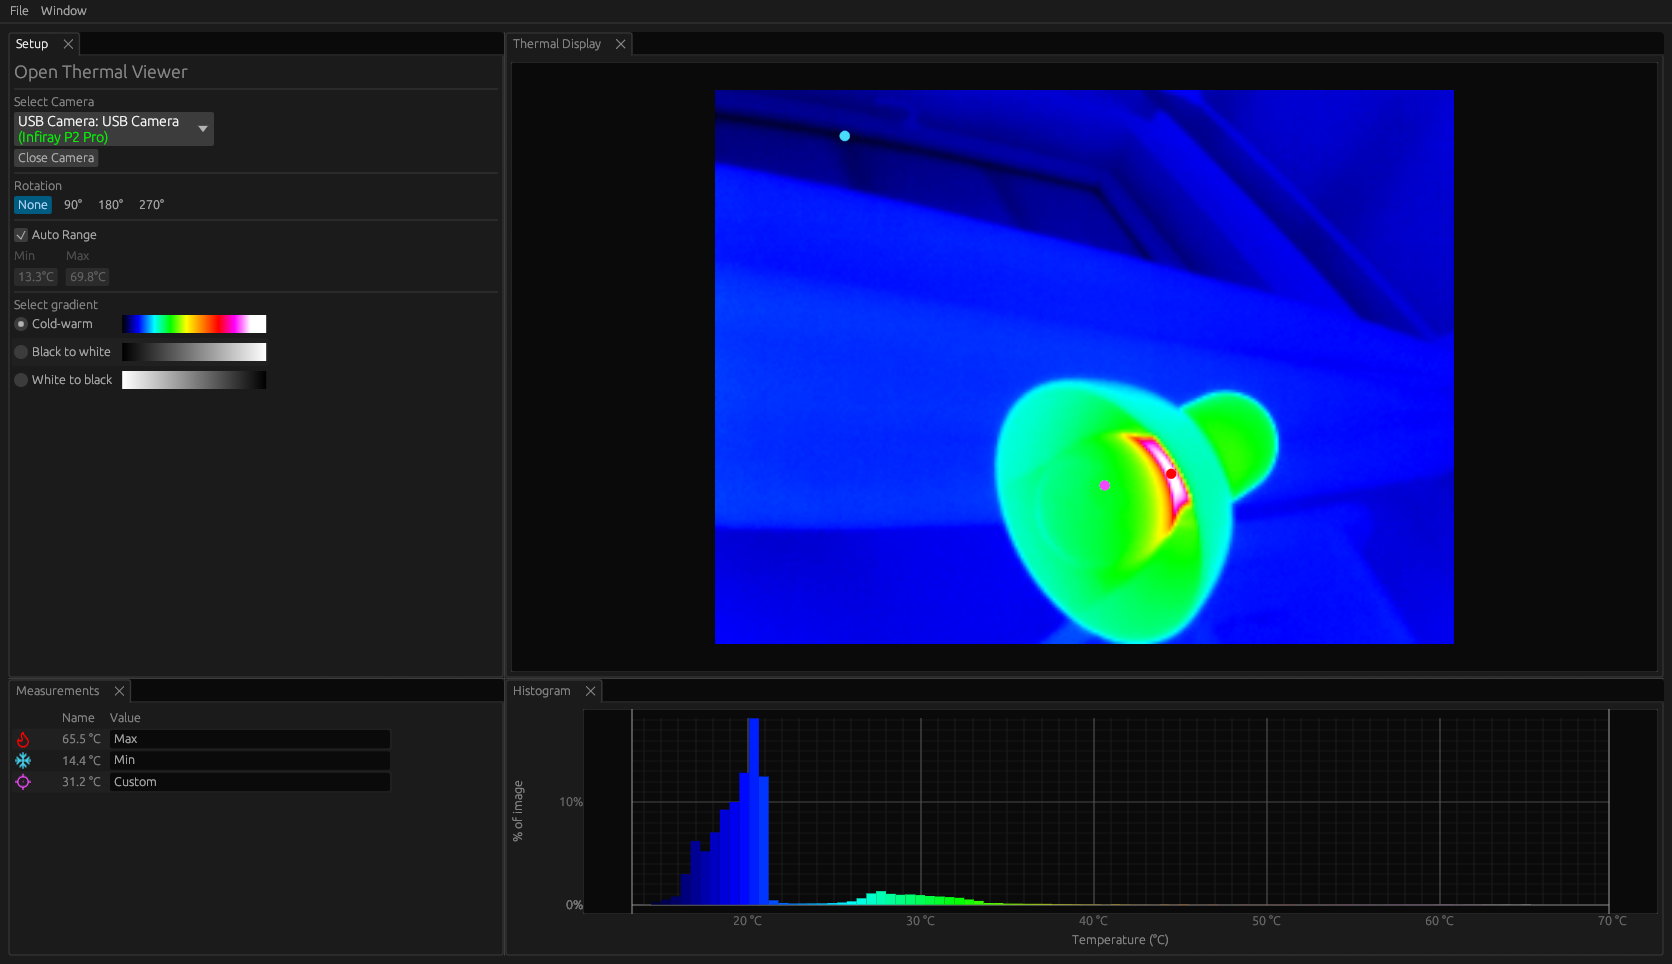
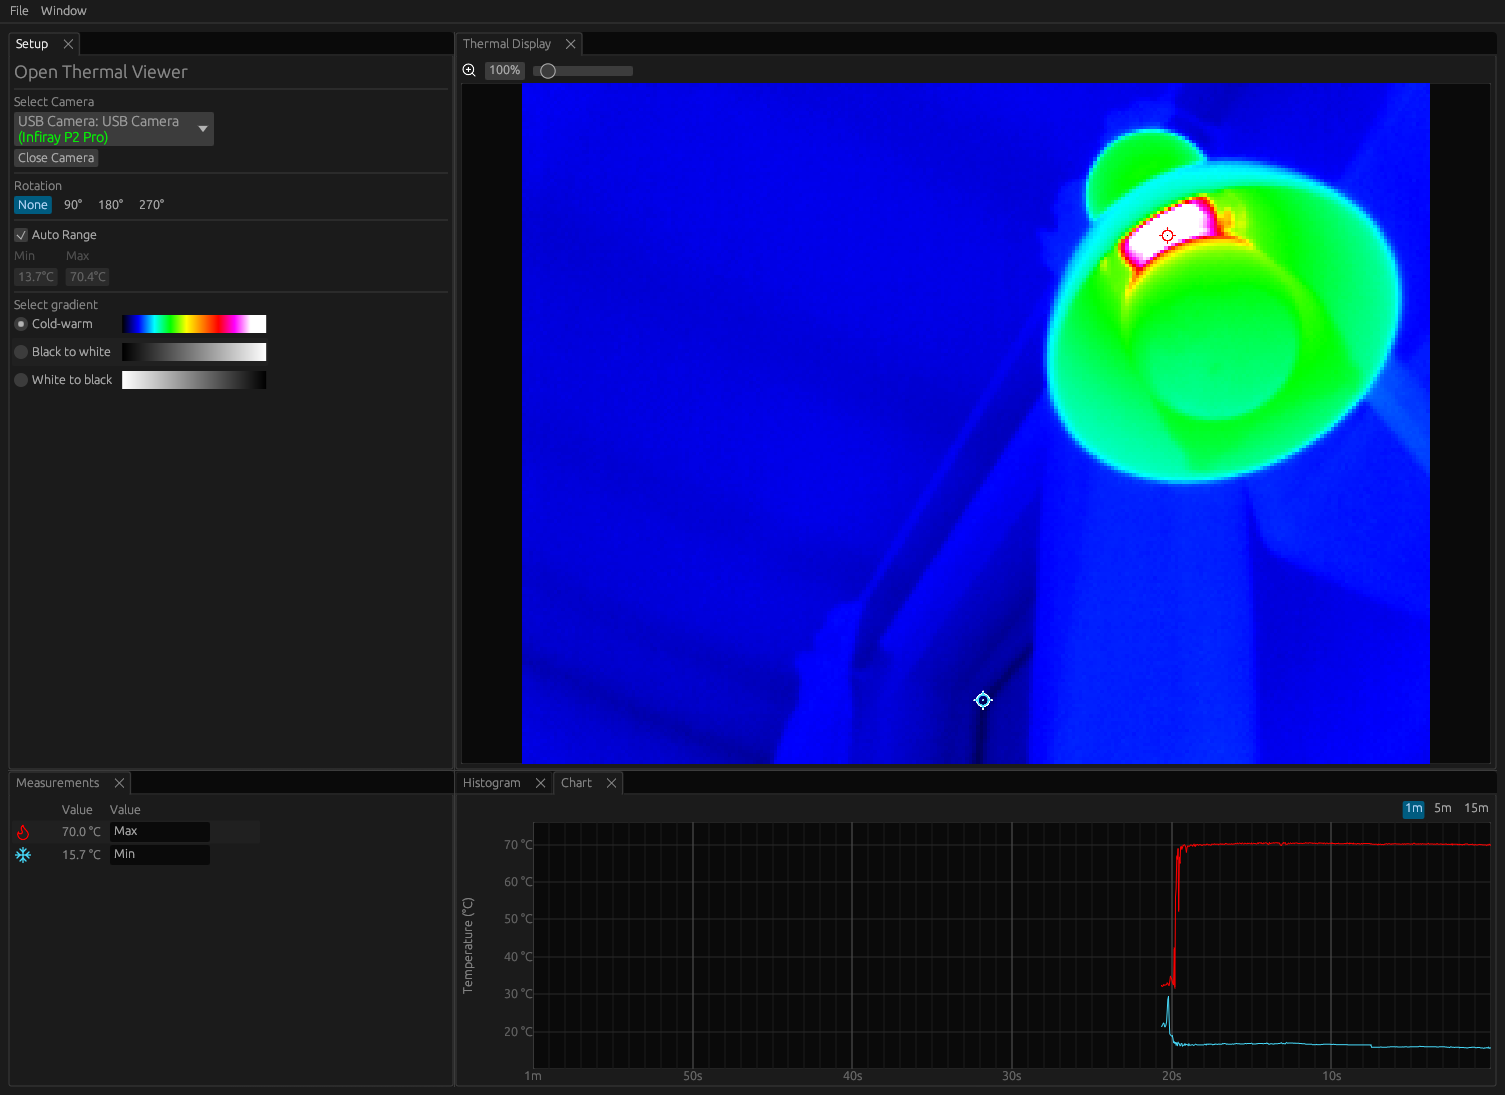
Fix zooming in and moving in thermal view
Scroll without ctrl now zooms and middle click moves view.

Added zoom indicator +  slider.

diff --git a/src/thermal_display_pane.rs b/src/thermal_display_pane.rs
@@ -4,11 +4,11 @@ use eframe::{
     egui::{
         self,
         load::{TextureLoadResult, TexturePoll},
-        SizeHint, TextureOptions,
+        DragValue, Image, Layout, Response, SizeHint, Slider, TextureOptions, Ui, Widget,
     },
     epaint::{TextureHandle, Vec2},
 };
-use egui_plot::{Plot, PlotImage, PlotPoint};
+use egui_plot::{Plot, PlotBounds, PlotImage, PlotPoint};
 
 use crate::{
     gizmos::GizmoKind, pane_dispatcher::Pane, thermal_data::ThermalDataPos, AppGlobalState,
@@ -22,6 +22,9 @@ pub struct ThermalDisplayPane {
 
     crosshair_texture_load_result: Option<TextureLoadResult>,
     crosshair_texture: Option<egui::TextureHandle>,
+
+    zoom_factor: f64,
+    center_offset: Vec2,
 }
 
 impl ThermalDisplayPane {
@@ -32,7 +35,28 @@ impl ThermalDisplayPane {
             crosshair_texture_load_result: None,
             crosshair_texture: None,
             camera_image_size: None,
+
+            zoom_factor: 1.0,
+            center_offset: Vec2::new(0.0, 0.0),
         }
+    }
+
+    fn build_toolbar_ui(&mut self, ui: &mut egui::Ui) {
+        ui.with_layout(
+            Layout::left_to_right(egui::Align::Min).with_main_align(egui::Align::Min),
+            |ui| {
+                Image::new(egui::include_image!("./icons/zoom-in.svg"))
+                    .max_height(16.0)
+                    .max_width(16.0)
+                    .tint(ui.style().visuals.widgets.active.fg_stroke.color)
+                    .ui(ui);
+                zoom_edit_field(ui, &mut self.zoom_factor);
+                Slider::new(&mut self.zoom_factor, 0.1..=10.0)
+                    .clamp_to_range(true)
+                    .show_value(false)
+                    .ui(ui);
+            },
+        );
     }
 }
 
@@ -87,83 +111,154 @@ impl Pane for ThermalDisplayPane {
                         Some(TextureHandle::new(ui.ctx().tex_manager(), texture.id))
                 }
             }
+            ui.vertical(|ui| {
+                self.build_toolbar_ui(ui);
+                self.camera_texture.as_ref().and_then(|texture| {
+                    let img_size = self.camera_image_size.unwrap();
 
-            self.camera_texture.as_ref().and_then(|texture| {
-                let img_size = self.camera_image_size.unwrap();
-                Plot::new("thermal_display_plot")
-                    .show_grid(false)
-                    .show_axes(false)
-                    .data_aspect(1.0)
-                    .auto_bounds_x()
-                    .auto_bounds_y()
-                    .show(ui, |plot_ui| {
-                        plot_ui.image(PlotImage::new(
-                            texture,
-                            PlotPoint::new(img_size.0 as f64 / 2.0, img_size.1 as f64 / 2.0),
-                            Vec2::new(img_size.0 as f32, img_size.1 as f32),
-                        ));
+                    Plot::new("thermal_display_plot")
+                        .show_grid(false)
+                        .show_axes(false)
+                        .allow_boxed_zoom(false)
+                        .allow_double_click_reset(false)
+                        .allow_zoom(false)
+                        .allow_drag(false)
+                        .allow_scroll(false)
+                        .data_aspect(1.0)
+                        .show(ui, |plot_ui| {
+                            // let's manually set the bounds we need
 
-                        global_state
-                            .thermal_capturer_settings
-                            .gizmo
-                            .children_mut()
-                            .unwrap()
-                            .iter()
-                            .for_each(|c| {
-                                let result = gizmo_results.as_ref().and_then(|r| r.get(&c.uuid));
-                                if let Some(result) = result {
-                                    let _color = c.color;
+                            let center_x = img_size.0 as f64 / 2.0 + self.center_offset.x as f64;
+                            let center_y = img_size.1 as f64 / 2.0 + self.center_offset.y as f64;
 
-                                    let x = result.pos.x as f64;
+                            plot_ui.set_plot_bounds(PlotBounds::from_min_max(
+                                [
+                                    center_x - (img_size.0 as f64 / 2.0) * (1.0 / self.zoom_factor),
+                                    center_y - (img_size.1 as f64 / 2.0) * (1.0 / self.zoom_factor),
+                                ],
+                                [
+                                    center_x + (img_size.0 as f64 / 2.0) * (1.0 / self.zoom_factor),
+                                    center_y + (img_size.1 as f64 / 2.0) * (1.0 / self.zoom_factor),
+                                ],
+                            ));
 
-                                    let y = img_size.1 as f64 - result.pos.y as f64;
+                            plot_ui.image(PlotImage::new(
+                                texture,
+                                PlotPoint::new(img_size.0 as f64 / 2.0, img_size.1 as f64 / 2.0),
+                                Vec2::new(img_size.0 as f32, img_size.1 as f32),
+                            ));
 
-                                    let point = PlotPoint::new(x, y);
-                                    let _size = 10.0;
-                                    if let Some(crosshair) = self.crosshair_texture.as_ref() {
-                                        // white backdrop for contrast
-                                        plot_ui.image(PlotImage::new(
-                                            crosshair,
-                                            point,
-                                            // 5 seems okay
-                                            Vec2::new(6.0, 6.0),
-                                        ));
-                                        plot_ui.image(
-                                            PlotImage::new(
+                            global_state
+                                .thermal_capturer_settings
+                                .gizmo
+                                .children_mut()
+                                .unwrap()
+                                .iter()
+                                .for_each(|c| {
+                                    let result =
+                                        gizmo_results.as_ref().and_then(|r| r.get(&c.uuid));
+                                    if let Some(result) = result {
+                                        let _color = c.color;
+
+                                        let x = result.pos.x as f64;
+
+                                        let y = img_size.1 as f64 - result.pos.y as f64;
+
+                                        let point = PlotPoint::new(x, y);
+                                        let _size = 10.0;
+                                        if let Some(crosshair) = self.crosshair_texture.as_ref() {
+                                            // white backdrop for contrast
+                                            plot_ui.image(PlotImage::new(
                                                 crosshair,
                                                 point,
                                                 // 5 seems okay
-                                                Vec2::new(5.0, 5.0),
-                                            )
-                                            .tint(c.color),
-                                        );
+                                                Vec2::new(6.0, 6.0),
+                                            ));
+                                            plot_ui.image(
+                                                PlotImage::new(
+                                                    crosshair,
+                                                    point,
+                                                    // 5 seems okay
+                                                    Vec2::new(5.0, 5.0),
+                                                )
+                                                .tint(c.color),
+                                            );
+                                        }
+                                    }
+                                });
+
+                            if plot_ui.response().clicked() {
+                                let pos = plot_ui.pointer_coordinate().unwrap();
+                                let x = pos.x as usize;
+                                let y = pos.y as usize;
+                                if x > 0 && y > 0 && x < img_size.0 && y < img_size.1 {
+                                    global_state.thermal_capturer_settings.gizmo.push_child(
+                                        GizmoKind::TempAt {
+                                            pos: ThermalDataPos::new(x, img_size.1 - y),
+                                        },
+                                        "Custom".to_string(),
+                                    );
+
+                                    let settings_clone =
+                                        global_state.thermal_capturer_settings.clone();
+                                    if let Some(thermal_capturer) =
+                                        global_state.thermal_capturer_inst.as_mut()
+                                    {
+                                        thermal_capturer.set_settings(settings_clone);
                                     }
                                 }
-                            });
+                            }
 
-                        if plot_ui.response().clicked() {
-                            let pos = plot_ui.pointer_coordinate().unwrap();
-                            let x = pos.x as usize;
-                            let y = pos.y as usize;
-                            if x > 0 && y > 0 && x < img_size.0 && y < img_size.1 {
-                                global_state.thermal_capturer_settings.gizmo.push_child(
-                                    GizmoKind::TempAt {
-                                        pos: ThermalDataPos::new(x, img_size.1 - y),
-                                    },
-                                    "Custom".to_string(),
-                                );
+                            if plot_ui.response().hovered() {
+                                let zoom_delta = plot_ui.ctx().input(|inp| {
+                                    inp.multi_touch()
+                                        .map_or((inp.scroll_delta.y / 200.0).exp(), |touch| {
+                                            touch.zoom_delta
+                                        })
+                                });
 
-                                let settings_clone = global_state.thermal_capturer_settings.clone();
-                                if let Some(thermal_capturer) =
-                                    global_state.thermal_capturer_inst.as_mut()
-                                {
-                                    thermal_capturer.set_settings(settings_clone);
+                                if zoom_delta != 0.0 {
+                                    self.zoom_factor *= zoom_delta as f64;
+                                    self.zoom_factor = self.zoom_factor.max(0.1);
+                                    self.zoom_factor = self.zoom_factor.min(10.0);
+
+                                    if (1.0 - self.zoom_factor).abs() < 0.055 {
+                                        // snap to 1.0
+                                        self.zoom_factor = 1.0;
+                                    }
                                 }
                             }
-                        }
-                    });
-                Some(())
+                            if plot_ui.response().dragged()
+                                && plot_ui.response().ctx.input(|inp| {
+                                    inp.pointer.button_down(egui::PointerButton::Middle)
+                                })
+                            {
+                                let delta = plot_ui.response().drag_delta();
+
+                                self.center_offset += delta
+                                    * Vec2::new(
+                                        (-1.0 / plot_ui.transform().dpos_dvalue_x()) as f32,
+                                        (-1.0 / plot_ui.transform().dpos_dvalue_y()) as f32,
+                                    );
+                            }
+                        });
+
+                    Some(())
+                });
             });
         });
     }
+}
+
+pub fn zoom_edit_field(ui: &mut Ui, zoom_value: &mut f64) -> Response {
+    let mut tmp_value = *zoom_value * 100.0;
+    let res = ui.add(
+        DragValue::new(&mut tmp_value)
+            .speed(5.0)
+            .max_decimals(0)
+            .suffix("%")
+            .clamp_range(10.0..=1000.0),
+    );
+    *zoom_value = tmp_value / 100.0;
+    res
 }
